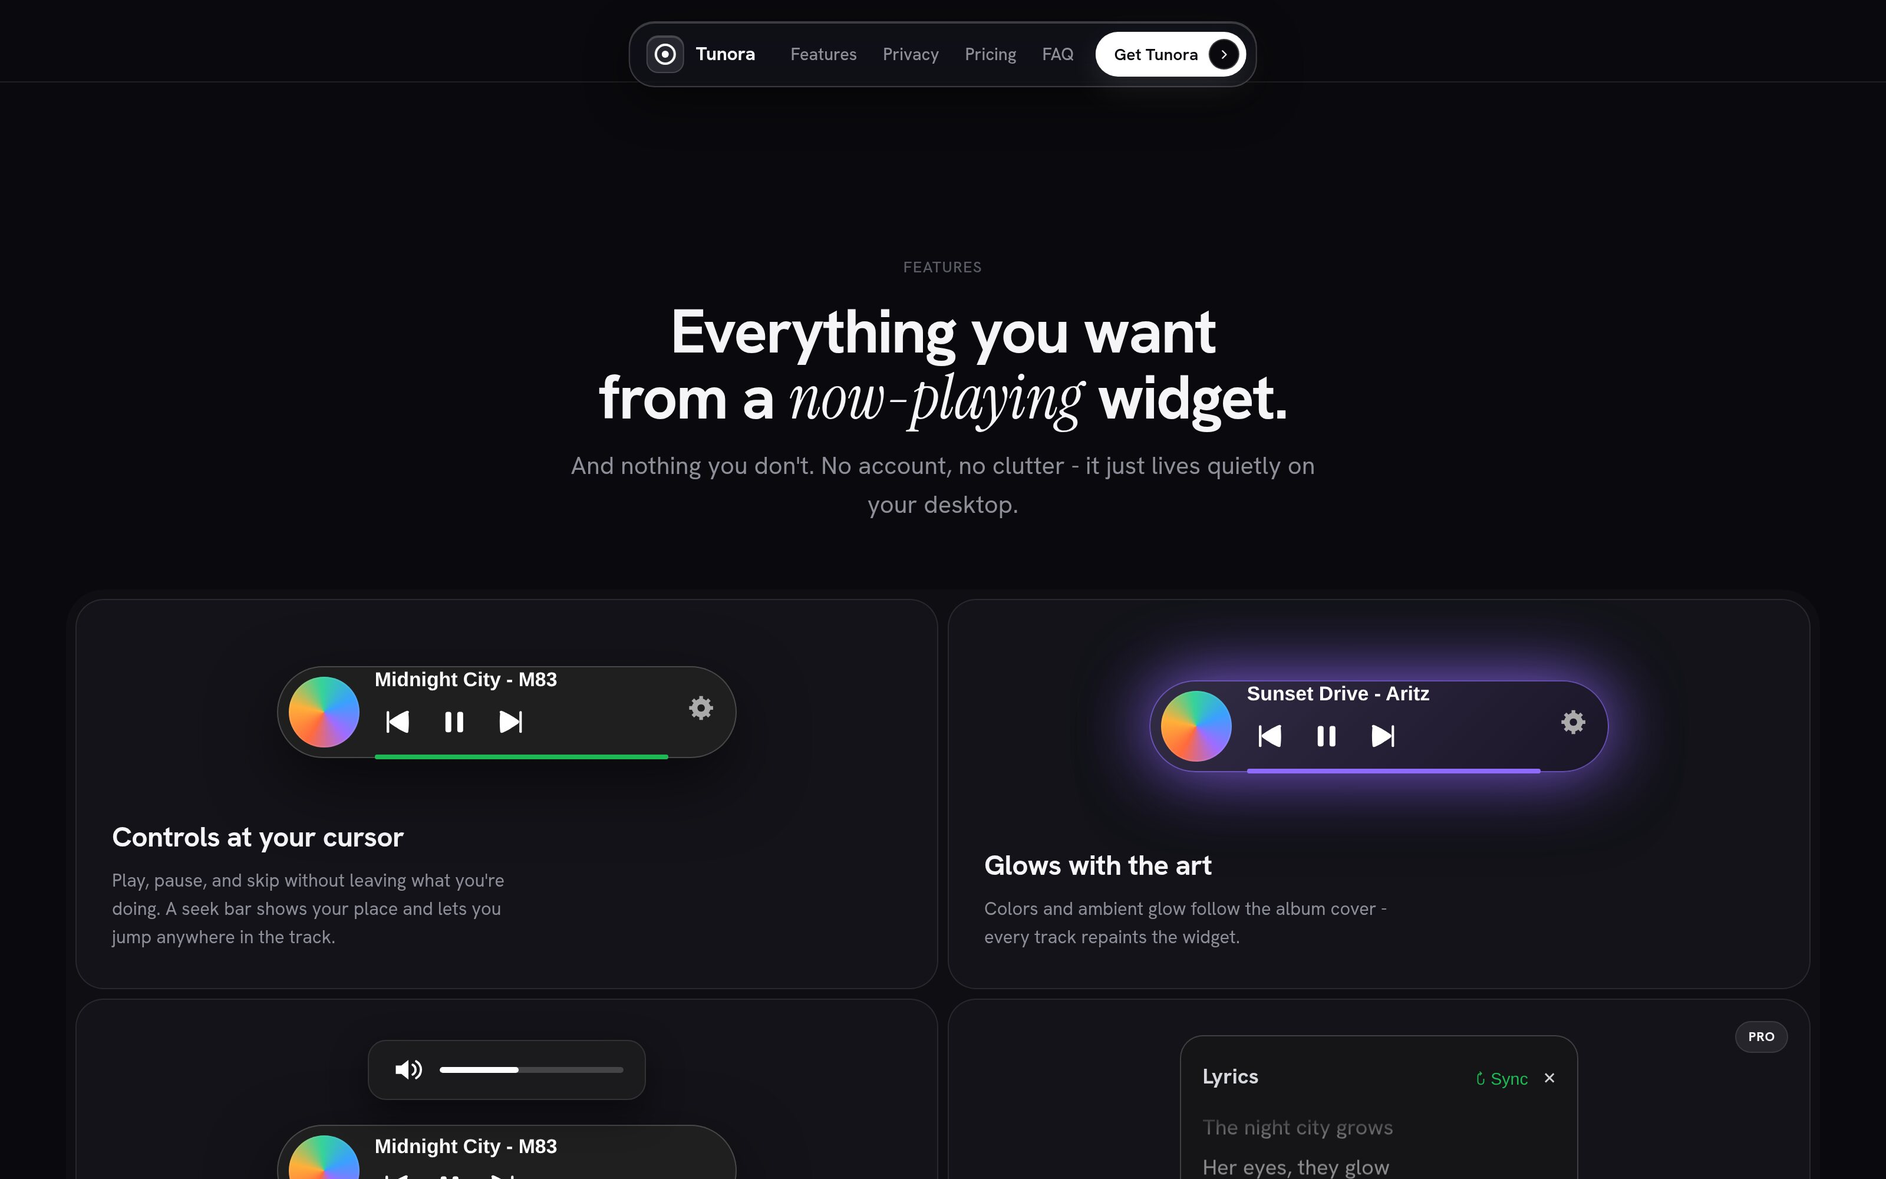
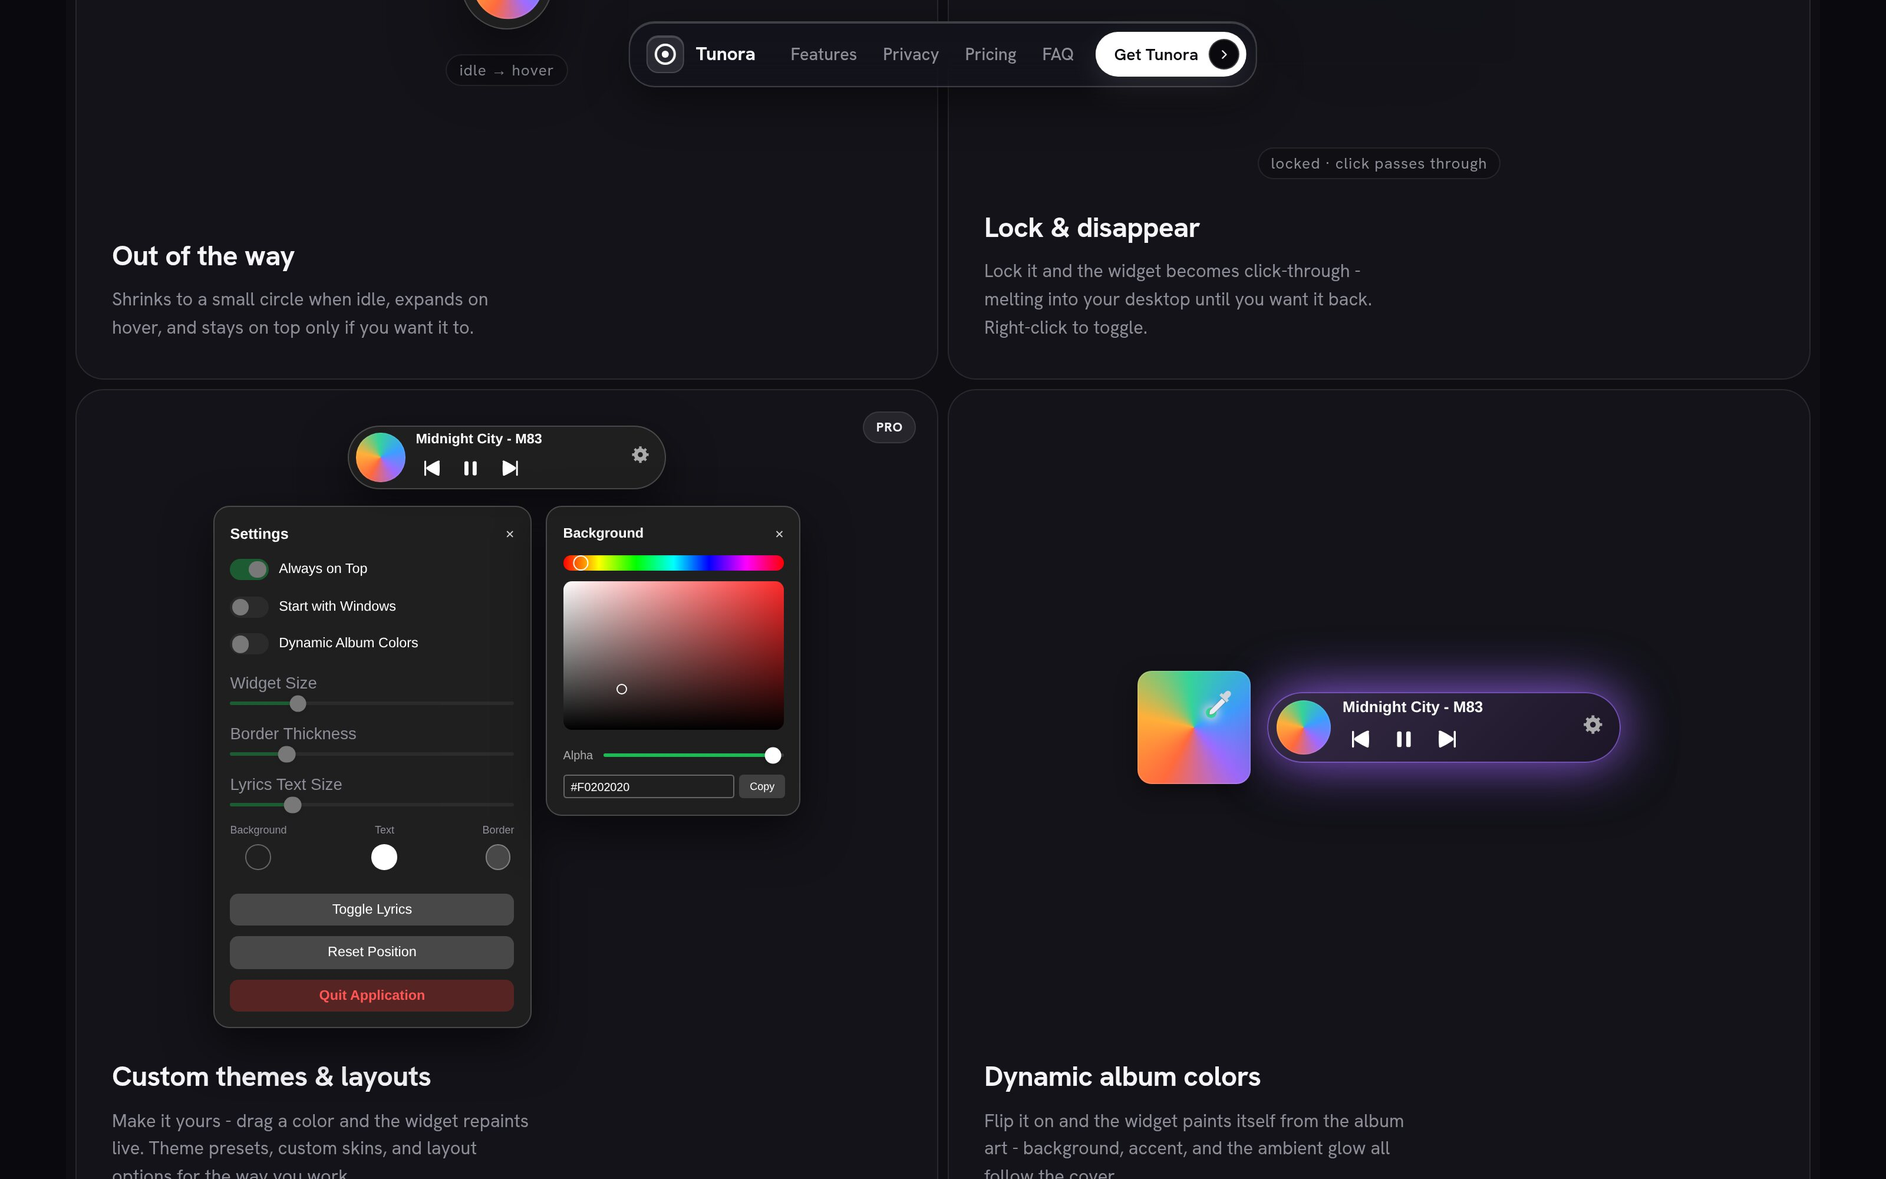
feat(case): Tunora has one monitor mockup like the other cases; first screen, feature cards, trust moments and footer as full-width pictures
Claude-Session: https://claude.ai/code/session_015wx5chGAxgBb93vaMMvr5i

diff --git a/src/data/case-copy.ts b/src/data/case-copy.ts
@@ -382,17 +382,31 @@ export const tunoraCopy = {
       text: 'Tunora is a small Windows widget that shows and controls whatever music is playing. I designed and built it, so the page had to do what a store listing would: let a visitor understand it in a second. Instead of describing the widget, the first rows of the page are small live demos of it, under one headline that says what they do.',
       alt: 'The Tunora home page scrolling slowly in a laptop frame: the first screen, the strip of albums and the cards with widget demos',
     },
-    privacy: {
-      kicker: 'Trust',
-      title: 'Privacy as a feature, in plain words',
-      text: 'A widget that reads what you listen to has to earn trust before it is installed. The page first says it works with virtually every player, then answers the worry in three short lines: no account, nothing leaves the PC, no analytics that identify you. A small status window beside them shows the same, as numbers.',
-      alt: 'The Tunora page scrolling in a laptop frame: the supported players in a ring and the privacy section with a terminal-style status window',
+    hero: {
+      kicker: 'First screen',
+      title: 'Everything that decides fits in one look',
+      text: 'The headline, one sentence and two buttons all sit above the fold, in one centered column. Around them the page says “music” before anyone reads: a glowing rim that frames the screen, a portrait lit by the music peeking from the bottom, and glass badges of players and album covers on both sides. One word of the headline is a serif italic, “glowing”.',
+      alt: 'The first screen of the Tunora website: a glowing rim, the headline, two buttons and a portrait with glass player badges',
     },
-    pricing: {
-      kicker: 'Decision',
-      title: 'Free first, the price second, then the doubts',
-      text: 'The free plan comes first, with a plain list of what it includes. Pro stands beside it with a one-time price and a “Coming soon” tag, because it cannot be bought yet. The questions that follow answer the usual doubts (the account, the price, the data, the Windows warning) before the closing call to download.',
-      alt: 'The Tunora page scrolling in a laptop frame: the pricing plans, the questions and the closing screen',
+    features: {
+      kicker: 'Feature cards',
+      title: 'Each card is the widget in one of its real states',
+      text: 'The cards sit in one large rounded block with a very small gap between them, so the grid reads as one object. Each one pairs a sentence with a demo of the widget in a real state, and the colors and radii of the demos come from the app’s own interface files, so the page shows the real widget, not an imitation of it.',
+      alt: 'The Tunora feature cards: the headline above a grid of cards with live widget demos',
+    },
+    decisions: {
+      kicker: 'Trust',
+      title: 'Two moments that earn trust before the install',
+      text: 'The privacy section shows its promise instead of only stating it: a status window types a command, the values scan and settle to zero, a padlock is drawn and stamped “secured”. With reduced motion, the final state appears at once. Then, when someone presses download, a dialog warns about the one thing Windows will do: Tunora is not code-signed yet, so Windows shows a warning the first time. The dialog says what will appear, the two clicks that follow, and why, with a fallback button if the download did not start.',
+      alt: 'The Tunora privacy section with a terminal-style status window that ends in a secured padlock',
+      altModal:
+        'The download dialog of Tunora over the blurred first screen: what Windows will show and the two steps to continue',
+    },
+    footer: {
+      kicker: 'Closing',
+      title: 'A night sky for a closing, in pure CSS',
+      text: 'The footer is a starfield with four shooting stars and warm and cool beams of light rising from the bottom, with no script and no image. Below the links comes one honest line: Tunora is not made by, or affiliated with, the music services it works with.',
+      alt: 'The Tunora footer: a night sky with stars and soft colored light beams above the links',
     },
     mobile: {
       kicker: 'Mobile',
@@ -443,13 +457,10 @@ export const tunoraCopy = {
     portfolio: {
       kicker: 'Desktop states',
       title: 'One surface, one hairline, one accent, top to bottom',
-      text: 'The same dark surface, hairline border and single accent carry through the feature cards, the supported players, the privacy section and the pricing. Every card pairs one sentence with a small working demo: scroll to change the volume, synced lyrics, a widget that shrinks to a circle when idle, a lock mode that lets clicks pass through.',
+      text: 'The same dark surface, hairline border and single accent carry through the feature cards, the supported players and the pricing. Every card pairs one sentence with a small working demo: scroll to change the volume, synced lyrics, a widget that shrinks to a circle when idle, a lock mode that lets clicks pass through.',
       slides: [
-        'Tunora features: the headline and the first cards with the seek bar and the album glow',
-        'Tunora features: scroll to set volume, synced lyrics, idle circle and lock mode',
         'Tunora features: the idle circle, lock mode, custom themes and dynamic album colors',
         'Tunora supported players: Spotify, YouTube, Apple Music and more in a ring',
-        'Tunora privacy: three short statements beside a terminal-style status window',
         'Tunora pricing: a free plan and a one-time Pro unlock',
       ],
     },
@@ -476,17 +487,31 @@ export const tunoraCopy = {
       text: 'Tunora е малък уиджет за Windows, който показва и управлява музиката, която свири. Проектирал съм и изработил съм го сам, затова страницата трябваше да свърши работата на листинг в магазин: посетителят да го разбере за секунда. Вместо да описва уиджета, първите редове на страницата са малки живи демонстрации, под едно заглавие, което казва какво правят.',
       alt: 'Началната страница на Tunora, която се превърта бавно в рамка на лаптоп: първият екран, лентата с албуми и картите с демонстрации на уиджета',
     },
-    privacy: {
-      kicker: 'Доверие',
-      title: 'Поверителността като възможност, с прости думи',
-      text: 'Уиджет, който чете какво слушате, трябва да спечели доверие още преди да бъде инсталиран. Страницата първо казва, че работи почти с всеки плейър, после отговаря на опасението в три кратки реда: няма акаунт, нищо не напуска компютъра, няма анализ, който да ви идентифицира. Малък прозорец със състояние до тях показва същото с числа.',
-      alt: 'Страницата на Tunora, която се превърта в рамка на лаптоп: поддържаните плейъри в дъга и секцията за поверителност с прозорец със състояние като терминал',
+    hero: {
+      kicker: 'Първи екран',
+      title: 'Всичко, което решава, се събира в един поглед',
+      text: 'Заглавието, едно изречение и два бутона са над сгъвката, в една центрирана колона. Около тях страницата казва „музика“ преди някой да е чел: светещ контур, който рамкира екрана, портрет, осветен от музиката, който се подава отдолу, и стъклени значки на плейъри и обложки от двете страни. Една дума от заглавието е курсивен сериф: „glowing“.',
+      alt: 'Първият екран на сайта на Tunora: светещ контур, заглавие, два бутона и портрет със стъклени значки на плейъри',
     },
-    pricing: {
-      kicker: 'Решение',
-      title: 'Първо безплатното, после цената, после съмненията',
-      text: 'Безплатният план е пръв, със ясен списък какво включва. До него е Pro с еднократна цена и етикет „Coming soon“, защото още не може да се купи. Въпросите след това отговарят на обичайните съмнения (акаунта, цената, данните, предупреждението на Windows) преди финалния призив за изтегляне.',
-      alt: 'Страницата на Tunora, която се превърта в рамка на лаптоп: плановете с цени, въпросите и затварящият екран',
+    features: {
+      kicker: 'Карти с възможности',
+      title: 'Всяка карта е уиджетът в едно от истинските му състояния',
+      text: 'Картите стоят в един голям заоблен блок с много малка междина между тях, така че мрежата се чете като един предмет. Всяка съчетава изречение с демонстрация на уиджета в реално състояние, а цветовете и радиусите на демонстрациите са от файловете на самото приложение, така че страницата показва истинския уиджет, а не имитация.',
+      alt: 'Картите с възможности на Tunora: заглавие над мрежа от карти с демонстрации на уиджета',
+    },
+    decisions: {
+      kicker: 'Доверие',
+      title: 'Два момента, които печелят доверие още преди инсталацията',
+      text: 'Секцията за поверителност показва обещанието си, а не само го казва: прозорец със състояние изписва команда, стойностите се сканират и спират на нула, чертае се катинар и се подпечатва „secured“. При намалено движение крайното състояние се показва веднага. После, когато някой натисне изтегляне, прозорец го предупреждава за единственото, което Windows ще направи: Tunora още не е подписана, затова при първото пускане Windows показва предупреждение. Прозорецът казва какво ще се появи, двата клика след това и защо, с резервен бутон, ако изтеглянето не е започнало.',
+      alt: 'Секцията за поверителност на Tunora с прозорец със състояние като терминал, който завършва със защитен катинар',
+      altModal:
+        'Прозорецът за изтегляне на Tunora над размазания първи екран: какво ще покаже Windows и двете стъпки за продължаване',
+    },
+    footer: {
+      kicker: 'Финал',
+      title: 'Нощно небе за финал, само с CSS',
+      text: 'Футърът е звездно небе с четири падащи звезди и топли и студени лъчи светлина, които се издигат отдолу, без скрипт и без изображение. Под връзките има един честен ред: Tunora не е направена от музикалните услуги, с които работи, и не е свързана с тях.',
+      alt: 'Футърът на Tunora: нощно небе със звезди и меки цветни лъчи светлина над връзките',
     },
     mobile: {
       kicker: 'Мобилно',
@@ -537,13 +562,10 @@ export const tunoraCopy = {
     portfolio: {
       kicker: 'Състояния на десктоп',
       title: 'Една повърхност, една тънка линия, един акцент отгоре до долу',
-      text: 'Същата тъмна повърхност, тънка рамка и един акцент минават през картите с възможности, поддържаните плейъри, поверителността и цените. Всяка карта съчетава едно изречение с малка работеща демонстрация: скрол за промяна на звука, синхронизирани текстове, уиджет, който се свива в кръг, когато е неактивен, и режим на заключване, през който кликовете минават.',
+      text: 'Същата тъмна повърхност, тънка рамка и един акцент минават през картите с възможности, поддържаните плейъри и цените. Всяка карта съчетава едно изречение с малка работеща демонстрация: скрол за промяна на звука, синхронизирани текстове, уиджет, който се свива в кръг, когато е неактивен, и режим на заключване, през който кликовете минават.',
       slides: [
-        'Tunora – възможности: заглавието и първите карти с лентата за превъртане и светенето по албума',
-        'Tunora – възможности: скрол за звука, синхронизирани текстове, кръг в покой и заключване',
         'Tunora – възможности: кръг в покой, заключване, собствени теми и цветове от албума',
         'Tunora – поддържани плейъри: Spotify, YouTube, Apple Music и други в дъга',
-        'Tunora – поверителност: три кратки твърдения до прозорец със състояние като терминал',
         'Tunora – цени: безплатен план и еднократно отключване на Pro',
       ],
     },
